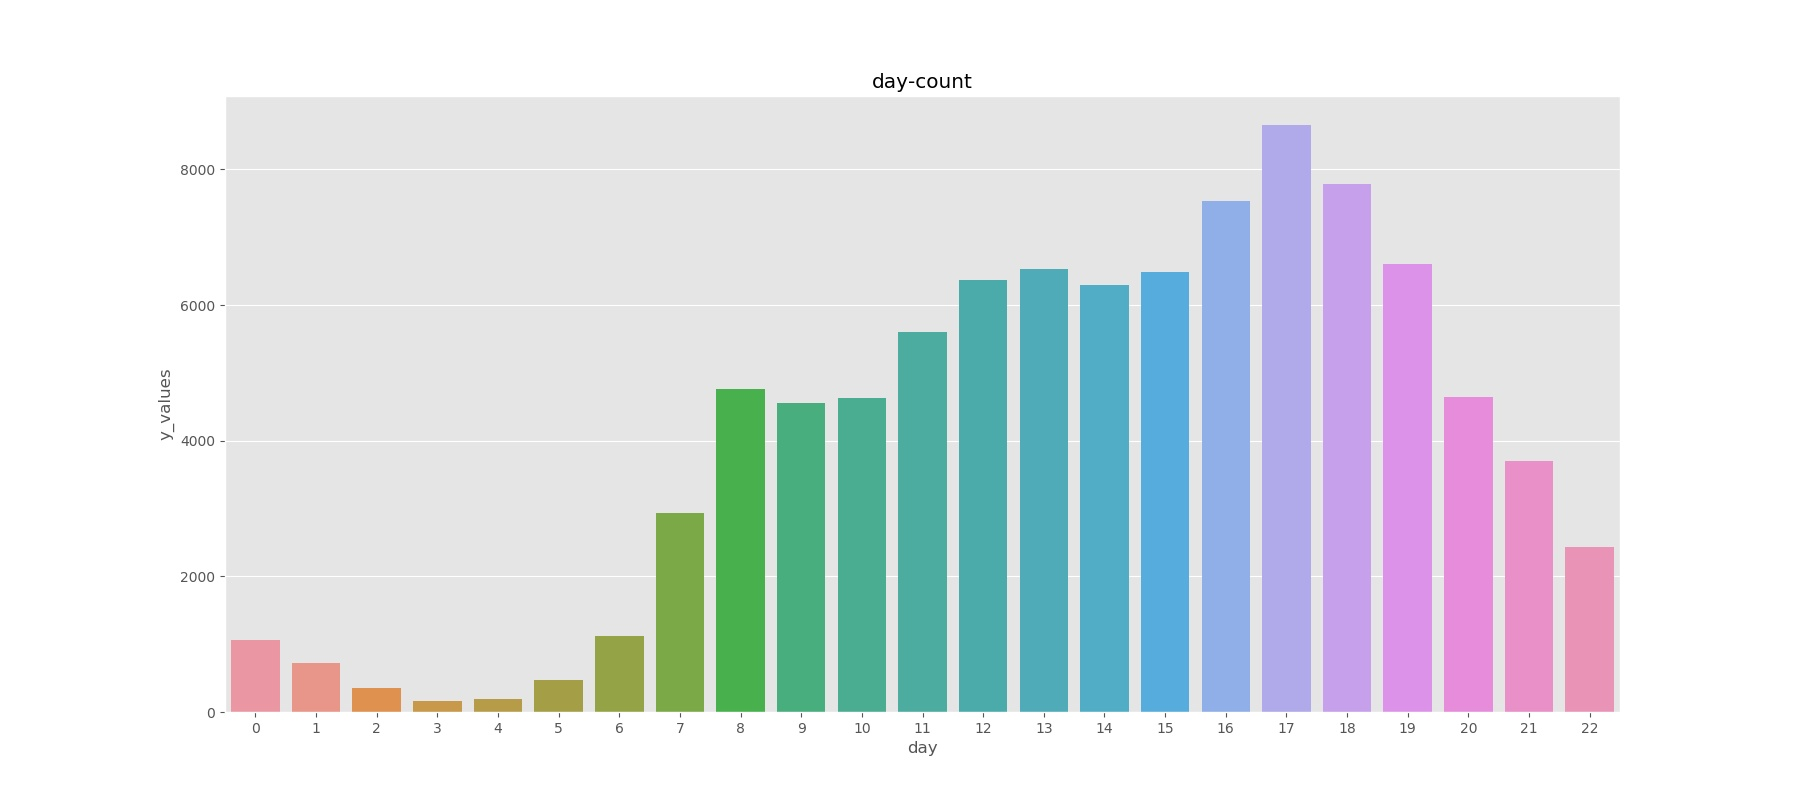
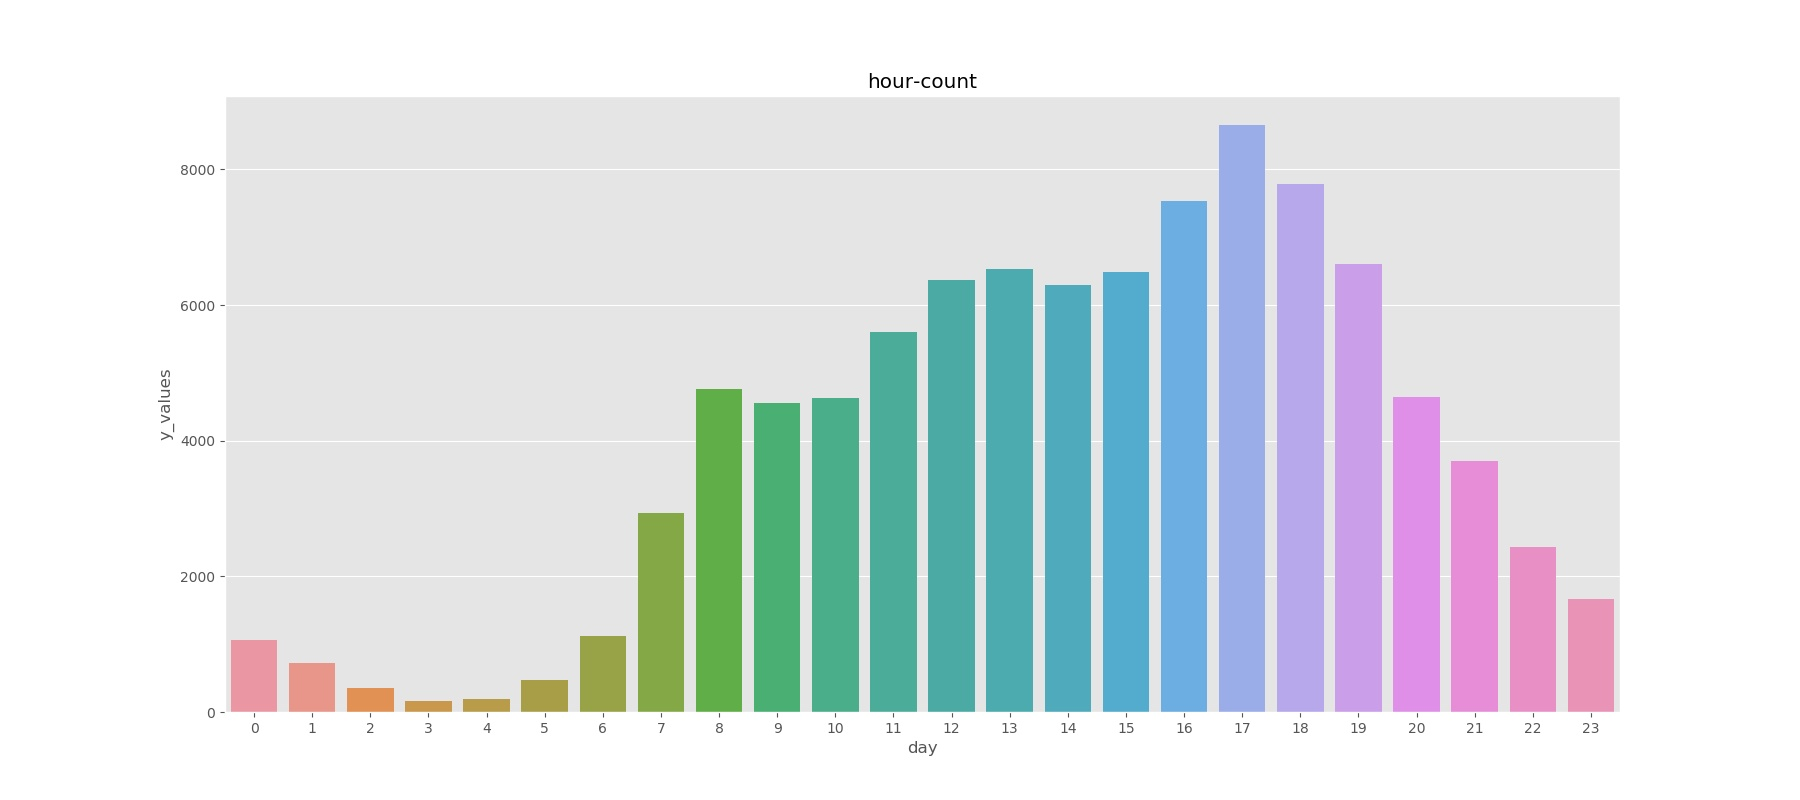
modify graph

Changed region(s): [[0.1867, 0.1562, 0.9022, 0.9062], [0.4667, 0.0938, 0.56, 0.125]]

diff --git a/mine/hour_frequency.py b/mine/hour_frequency.py
@@ -22,17 +22,17 @@ print(hour_frequency)
 
 x_values = []
 y_values = []
-for i in range(0, 23):
+for i in range(0, 24):
     x_values.append(hour_frequency[i][0])
     y_values.append(hour_frequency[i][1])
 
-# plt.scatter(x_values, y_values, c=y_values, edgecolors='blue', s=60)
-# plt.title("Hour_Number of rides", fontsize=20)
-# plt.xlabel("Hour", fontsize=20)
-# plt.ylabel("Number of rides", fontsize=20)
-# plt.tick_params(axis='both', labelsize=14)
-# plt.savefig("../graph/hour-numberOfRide-scatter.jpg")
-# plt.show()
+plt.scatter(x_values, y_values, c=y_values, edgecolors='blue', s=60)
+plt.title("Hour_Number of rides", fontsize=20)
+plt.xlabel("Hour", fontsize=20)
+plt.ylabel("Number of rides", fontsize=20)
+plt.tick_params(axis='both', labelsize=14)
+plt.savefig("../graph/hour-numberOfRide-scatter.jpg")
+plt.show()
 
 # plt.style.use["ggplot"]
 plt.style.use("ggplot")
@@ -48,6 +48,6 @@ fig = plt.figure(figsize=(16, 24))
 ax1 = fig.add_subplot(1, 1, 1)
 fig.set_size_inches(18, 8)
 sns.barplot(data=df, x=x_values, y=y_values, ax=ax1)
-ax1.set(xlabel="day", ylabel="y_values", title="day-count")
+ax1.set(xlabel="day", ylabel="y_values", title="hour-count")
 plt.savefig("../graph/hour-numberOfRide-barplot.jpg")
 plt.show()

diff --git a/mine/month_frequency.py b/mine/month_frequency.py
@@ -39,6 +39,6 @@ fig = plt.figure(figsize=(16, 24))
 ax1 = fig.add_subplot(1, 1, 1)
 fig.set_size_inches(18, 8)
 sns.barplot(data=df, x=x_values, y=y_values, ax=ax1)
-ax1.set(xlabel="day", ylabel="y_values", title="day-count")
+ax1.set(xlabel="day", ylabel="y_values", title="month-count")
 plt.savefig("../graph/month-numberOfRide-barplot.jpg")
 plt.show()
